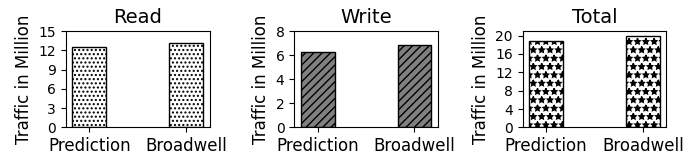
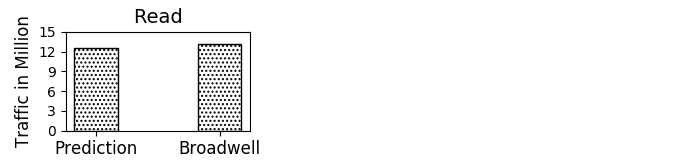
added graphs for paper

diff --git a/vecmul_cpu/ipdps_graph/vecmul_pref_zone.py b/vecmul_cpu/ipdps_graph/vecmul_pref_zone.py
@@ -13,20 +13,33 @@ fig.set_size_inches(7, 3.5)
 
 
 #stride = ['stride-1', 'stride-2', 'stride-4', 'stride-8', 'stride-16', 'stride-32', 'stride-64', 'stride-128', 'stride-256', 'stride-512', 'stride-1024', 'stride-2048', 'stride-4096', 'stride-8192']
-stride = ['MAPInt', 'literature', 'BW_no_pref', 'BW_pref', 'SL_no_pref', 'SL_pref', 'CL_no_pref', 'CL_pref']
-total=[8388608, 8388608, 9441832, 9310190, 8837973, 9382619, 9266269, 9326488]
+stride = ['MAPInt-no-pref',  'literature', 'BW_no_pref',  'SL_no_pref', 'CL_no_pref','MAPInt-pref','BW_pref','SL_pref', 'CL_pref']
+#total=[6291456, 4194304, 6860474, 6775994, 6053006, 6029796, 6297782, 5666516]
+total=[10250000,  6000000, 10896302,  11144894,  10927516, 18250000, 16974365, 15319403,14936328]
+
 total = np.array(total) / 1000000
 
 mapint=total[0]
-literature=total[1]
+mapint_p=total[1]
+literature=total[2]
 i=0
-mapint_accuracy=np.arange(6)
-literature_accuracy=np.arange(6)
-for x in total:
-    if i > 1: 
-    	mapint_accuracy[i-2]=100-abs((x-mapint)/x*100)
-    	literature_accuracy[i-2]=100-abs((x-literature)/x*100)
-    i=i+1
+j=0
+k=0
+mapint_accuracy=np.arange(3)
+mapint_accuracy_p=np.arange(3)
+literature_accuracy=np.arange(3)
+literature_accuracy_p=np.arange(3)
+#for x in total:
+#    if i > 2:
+#	if i%2 == 1:
+#		mapint_accuracy[j]=100-abs(x-mapint)/x*100
+#    	    	literature_accuracy[j]=100-abs(x-literature)/x*100
+#	    	j = j+1
+#	else: 
+#    	    	mapint_accuracy_p[k]=100-abs(x-mapint_p)/x*100
+#    	    	literature_accuracy_p[k]=100-abs(x-literature)/x*100
+#	    	k = k+1
+#    i=i+1
 
 def average(lst):
     return sum(lst) / len(lst)
@@ -84,6 +97,6 @@ plt.xticks(rotation=45, fontsize=14)
 plt.tight_layout()
 
 plt.show()
-fig.savefig('jacobi.png', dpi=100)
+fig.savefig('vecmul-50.png', dpi=100)
 
 # Example data

diff --git a/vecmul_cpu/ipdps_graph/xbench.py b/vecmul_cpu/ipdps_graph/xbench.py
@@ -13,9 +13,11 @@ fig.set_size_inches(7, 3.5)
 
 
 #stride = ['stride-1', 'stride-2', 'stride-4', 'stride-8', 'stride-16', 'stride-32', 'stride-64', 'stride-128', 'stride-256', 'stride-512', 'stride-1024', 'stride-2048', 'stride-4096', 'stride-8192']
-stride = ['MAPInt', 'literature', 'BW_no_pref', 'BW_pref', 'SL_no_pref', 'SL_pref', 'CL_no_pref', 'CL_pref']
-total=[8388608, 8388608, 9441832, 9310190, 8837973, 9382619, 9266269, 9326488]
-total = np.array(total) / 1000000
+stride = ['MAPInt', 'BW_no_pref', 'BW_pref', 'SL_no_pref', 'SL_pref', 'CL_no_pref', 'CL_pref']
+#total=[8388608, 8388608, 9441832, 9310190, 8837973, 9382619, 9266269, 9326488]
+total=[588570.264030711, 426155, 472839, 534214, 1152437, 428042, 394083]
+
+total = np.array(total) / 100000
 
 mapint=total[0]
 literature=total[1]
@@ -23,9 +25,9 @@ i=0
 mapint_accuracy=np.arange(6)
 literature_accuracy=np.arange(6)
 for x in total:
-    if i > 1: 
-    	mapint_accuracy[i-2]=100-abs((x-mapint)/x*100)
-    	literature_accuracy[i-2]=100-abs((x-literature)/x*100)
+    if i > 0: 
+    	mapint_accuracy[i-1]=100-abs((x-mapint)/x*100)
+    	literature_accuracy[i-1]=100-abs((x-literature)/x*100)
     i=i+1
 
 def average(lst):
@@ -63,7 +65,7 @@ plt.bar(stride, total, width=barwidth, hatch='....', color='white', edgecolor='b
 #plt.legend(loc="upper right", fontsize=12)
 
 
-ax.set_ylabel('Traffic in million', fontsize=16)
+ax.set_ylabel('Traffic in 100,000', fontsize=16)
 #ax.set_xlabel('Stride', fontsize=16)
 
 plt.yticks(np.arange(0, max(total)+3, 3))
@@ -84,6 +86,6 @@ plt.xticks(rotation=45, fontsize=14)
 plt.tight_layout()
 
 plt.show()
-fig.savefig('jacobi.png', dpi=100)
+fig.savefig('xsbench.png', dpi=100)
 
 # Example data

diff --git a/vecmul_cpu/ipdps_graph/stream_triad.py b/vecmul_cpu/ipdps_graph/stream_triad.py
@@ -1,0 +1,56 @@
+import random 
+import matplotlib
+import matplotlib.pyplot as plt
+from matplotlib import style
+
+import numpy as np
+import matplotlib.patches as mpatches
+
+
+labels = ['Prediction', 'Broadwell']
+#labels = ['Actual', 'Broadwell', '5123 | 4', '345 | 12']
+read = [12.5, 13.17]
+#time = [52.3626,71.0796,107.572,122.252 ]
+write = [6.25, 6.83]
+total = [18.75, 20.00]
+#energy = [751.589, 1057.12, 889.84, 1143.66]
+
+x = np.arange(len(labels))  # the label locations
+
+width = 0.35  # the width of the bars
+
+fig = plt.figure()
+
+fig.set_size_inches(7, 2)
+
+#ax = fig.add_subplot(131)
+
+#rects1 = ax.bar(x, stand_alone, width, label='Stand Alone')
+#rects1 = ax.bar(x - width/2, stand_alone, width, color='cornflowerblue')
+#rects1 = ax.bar(x,time, width)
+rects1 = ax.bar(x,read, width, hatch='....', color='white', edgecolor='black')
+#rects1 = ax.bar(x - width/2, stand_alone, width, label='Stand Alone')
+#rects2 = ax.bar(x, collocated, width, label='Collocated')
+#rects2 = ax.bar(x + width/2, collocated, width, color='orange')
+#rects2 = ax.bar(x + width/2, collocated, width, label='Collocated')
+
+# Add some text for labels, title and custom x-axis tick labels, etc.
+plt.set_ylabel('Traffic in Million', fontsize=12)
+plt.set_title('Read', fontsize=14)
+plt.set_xticks(x)
+plt.set_xticklabels(labels, fontsize=12,)
+#ax.set_xticklabels(labels, fontsize=12, rotation='vertical')
+#ax.legend(loc=1, bbox_to_anchor=(0.5, 0., 0.5, 0.99))
+plt.set_yticks(np.arange(0, max(read)+2, 3))
+
+
+x = np.arange(len(labels))  # the label locations
+
+
+
+
+fig.subplots_adjust(wspace=.5)
+plt.tight_layout()
+plt.show()
+fig.savefig('method-stream.png', dpi=100)
+

diff --git a/vecmul_cpu/ipdps_graph/vecmul-200.py b/vecmul_cpu/ipdps_graph/vecmul-200.py
@@ -14,7 +14,7 @@ fig.set_size_inches(7, 3.5)
 
 #stride = ['stride-1', 'stride-2', 'stride-4', 'stride-8', 'stride-16', 'stride-32', 'stride-64', 'stride-128', 'stride-256', 'stride-512', 'stride-1024', 'stride-2048', 'stride-4096', 'stride-8192']
 stride = ['MAPInt', 'literature', 'BW_no_pref', 'BW_pref', 'SL_no_pref', 'SL_pref', 'CL_no_pref', 'CL_pref']
-total=[8388608, 8388608, 9441832, 9310190, 8837973, 9382619, 9266269, 9326488]
+total=[2000000, 1500000, 2338203, 2346605, 2377012, 2529912, 2006509, 2007643]
 total = np.array(total) / 1000000
 
 mapint=total[0]
@@ -24,8 +24,8 @@ mapint_accuracy=np.arange(6)
 literature_accuracy=np.arange(6)
 for x in total:
     if i > 1: 
-    	mapint_accuracy[i-2]=100-abs((x-mapint)/x*100)
-    	literature_accuracy[i-2]=100-abs((x-literature)/x*100)
+    	mapint_accuracy[i-2]=100-abs(x-mapint)/x*100
+    	literature_accuracy[i-2]=100-abs(x-literature)/x*100
     i=i+1
 
 def average(lst):
@@ -66,7 +66,7 @@ plt.bar(stride, total, width=barwidth, hatch='....', color='white', edgecolor='b
 ax.set_ylabel('Traffic in million', fontsize=16)
 #ax.set_xlabel('Stride', fontsize=16)
 
-plt.yticks(np.arange(0, max(total)+3, 3))
+plt.yticks(np.arange(0, max(total)+1, 1))
 
 #plt.title('', fontsize=18)
 #ax.set_xticks(x_pos)
@@ -84,6 +84,6 @@ plt.xticks(rotation=45, fontsize=14)
 plt.tight_layout()
 
 plt.show()
-fig.savefig('jacobi.png', dpi=100)
+fig.savefig('vecmul-200.png', dpi=100)
 
 # Example data

diff --git a/vecmul_cpu/ipdps_graph/laplace.py b/vecmul_cpu/ipdps_graph/laplace.py
@@ -14,7 +14,8 @@ fig.set_size_inches(7, 3.5)
 
 #stride = ['stride-1', 'stride-2', 'stride-4', 'stride-8', 'stride-16', 'stride-32', 'stride-64', 'stride-128', 'stride-256', 'stride-512', 'stride-1024', 'stride-2048', 'stride-4096', 'stride-8192']
 stride = ['MAPInt', 'literature', 'BW_no_pref', 'BW_pref', 'SL_no_pref', 'SL_pref', 'CL_no_pref', 'CL_pref']
-total=[8388608, 8388608, 9441832, 9310190, 8837973, 9382619, 9266269, 9326488]
+total=[6291456, 4194304, 6860474, 6775994, 6053006, 6029796, 6297782, 5666516]
+
 total = np.array(total) / 1000000
 
 mapint=total[0]
@@ -24,8 +25,8 @@ mapint_accuracy=np.arange(6)
 literature_accuracy=np.arange(6)
 for x in total:
     if i > 1: 
-    	mapint_accuracy[i-2]=100-abs((x-mapint)/x*100)
-    	literature_accuracy[i-2]=100-abs((x-literature)/x*100)
+    	mapint_accuracy[i-2]=100-abs(x-mapint)/x*100
+    	literature_accuracy[i-2]=100-abs(x-literature)/x*100
     i=i+1
 
 def average(lst):
@@ -84,6 +85,6 @@ plt.xticks(rotation=45, fontsize=14)
 plt.tight_layout()
 
 plt.show()
-fig.savefig('jacobi.png', dpi=100)
+fig.savefig('laplace.png', dpi=100)
 
 # Example data

diff --git a/vecmul_cpu/ipdps_graph/triad_stream.py b/vecmul_cpu/ipdps_graph/triad_stream.py
@@ -25,8 +25,8 @@ mapint_accuracy=np.arange(6)
 literature_accuracy=np.arange(6)
 for x in total:
     if i > 1: 
-    	mapint_accuracy[i-2]=100-abs((x-mapint)/mapint*100)
-    	literature_accuracy[i-2]=100-abs((x-literature)/literature*100)
+    	mapint_accuracy[i-2]=100-abs((x-mapint)/x*100)
+    	literature_accuracy[i-2]=100-abs((x-literature)/x*100)
     i=i+1
 
 def average(lst):
